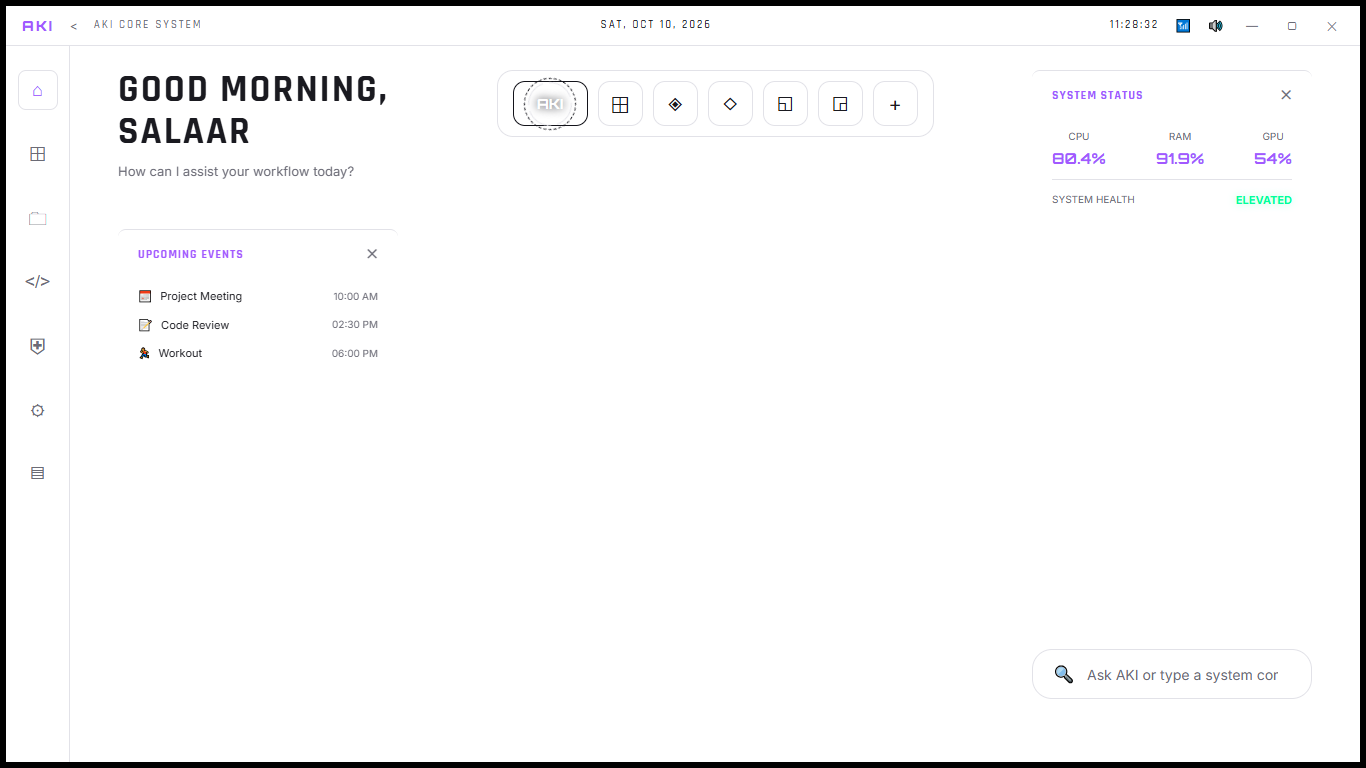
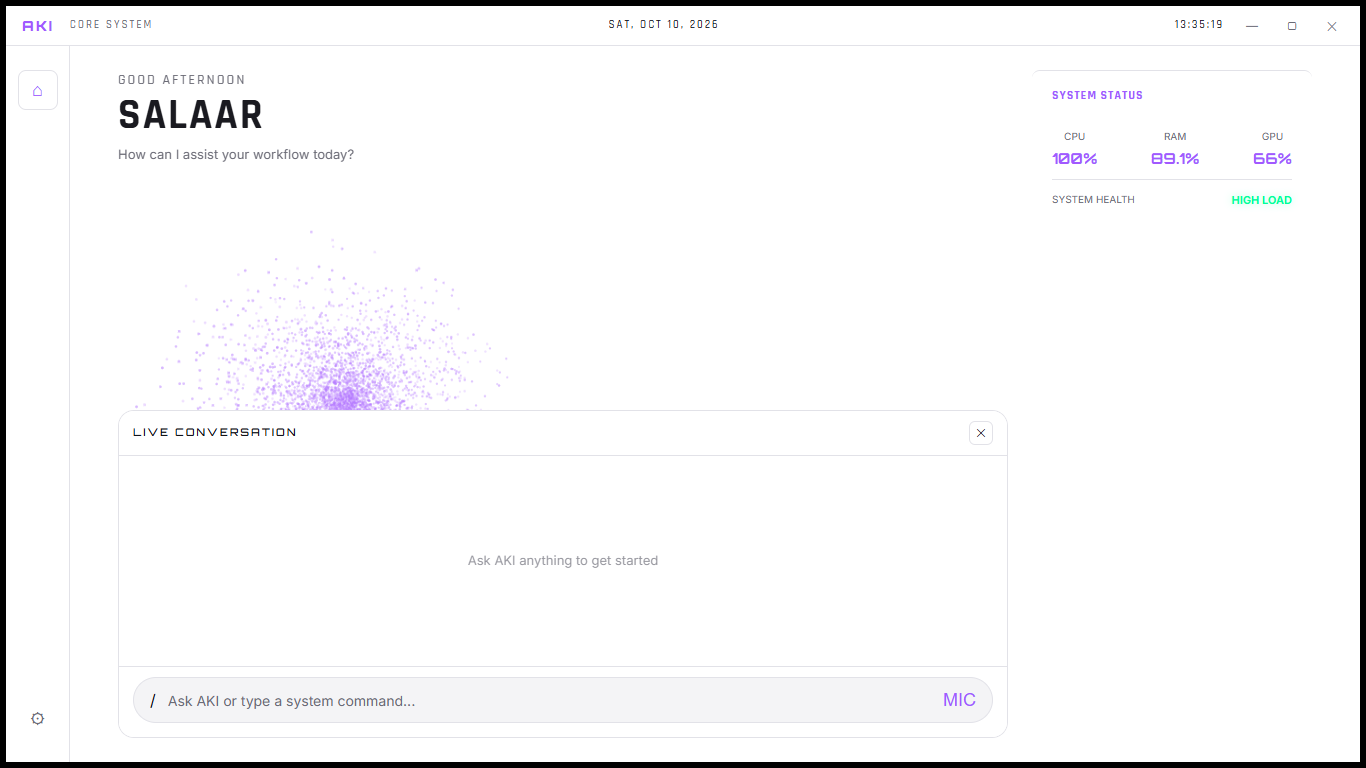
feat: Full minimal dashboard redesign (only particles and settings)

diff --git a/interfaces/web/dashboard.html b/interfaces/web/dashboard.html
@@ -10,90 +10,18 @@
 <body>
     <div class="aki-app-container">
         
-        <!-- Topbar -->
-        <header class="aki-layout-topbar">
-            <div class="aki-topbar-left">
-                <span class="aki-topbar-logo">AKI</span>
-                <span class="aki-topbar-title">CORE SYSTEM</span>
-            </div>
-            <div class="aki-topbar-center" id="osClockDate"></div>
-            <div class="aki-topbar-right">
-                <span class="aki-topbar-center" id="osClockTime"></span>
-                <button class="aki-win-btn" id="btnMin">—</button>
-                <button class="aki-win-btn" id="btnMax">▢</button>
-                <button class="aki-win-btn close" id="btnClose">✕</button>
-            </div>
-        </header>
-
         <!-- Main Workspace -->
         <div class="aki-layout-workspace">
             
             <!-- Left Dock -->
-            <nav class="aki-layout-sidebar">
-                <button class="aki-nav-btn active" data-nav="home">⌂</button>
+            <nav class="aki-layout-sidebar" style="background: transparent; border: none;">
                 <div class="aki-nav-spacer" style="flex: 1;"></div>
-                <button class="aki-nav-btn" data-nav="settings" id="btnSettingsNav">⚙</button>
+                <button class="aki-nav-btn" data-nav="settings" id="btnSettingsNav" style="margin-bottom: 20px;">⚙</button>
             </nav>
-
 
             <!-- Inner Grid (Dashboard Content) -->
             <main class="aki-layout-desktop">
-                
                 <canvas id="aki-particle-canvas"></canvas>
-                
-                <!-- Left Area: Greeting -->
-                <div class="aki-layout-left aki-fade-in">
-                    <div class="greeting-box">
-                        <div class="aki-greeting-time" id="greetingTime">GOOD MORNING</div>
-                        <div class="aki-greeting-name" id="greetingName">SALAAR</div>
-                        <p class="aki-greeting-sub">How can I assist your workflow today?</p>
-                    </div>
-                </div>
-
-
-
-                <!-- Right Area: Subtle System Status -->
-                <div class="aki-layout-right aki-fade-in">
-                    <div class="aki-glass-panel">
-                        <div class="aki-panel-header">SYSTEM STATUS</div>
-                        <div class="aki-telemetry-row">
-                            <div class="aki-telemetry-item">
-                                <div class="aki-telemetry-label">CPU</div>
-                                <div class="aki-telemetry-val" id="osCpuVal">--%</div>
-                            </div>
-                            <div class="aki-telemetry-item">
-                                <div class="aki-telemetry-label">RAM</div>
-                                <div class="aki-telemetry-val" id="osRamVal">--%</div>
-                            </div>
-                            <div class="aki-telemetry-item">
-                                <div class="aki-telemetry-label">GPU</div>
-                                <div class="aki-telemetry-val" id="osGpuVal">--%</div>
-                            </div>
-                        </div>
-                        <div class="aki-health-row">
-                            <div class="aki-telemetry-label">SYSTEM HEALTH</div>
-                            <div class="aki-health-val" id="osHealthLabel">EXCELLENT</div>
-                        </div>
-                        </div>
-                    </div>
-                    
-                    <div class="os-chat-panel" id="chatPanel">
-                        <div class="os-chat-header">
-                            <span class="os-chat-title">LIVE CONVERSATION</span>
-                            <button class="os-chat-clear" id="btnChatClear" title="Clear conversation">✕</button>
-                        </div>
-                        <div class="os-chat-scroll" id="chatMessages">
-                            <div class="os-chat-empty-state" id="chatEmptyState">Ask AKI anything to get started</div>
-                        </div>
-                        <div class="aki-command-wrapper">
-                            <div class="aki-command-bar">
-                                <span class="aki-cmd-icon">/</span>
-                                <input type="text" class="aki-cmd-input" id="cmdInput" placeholder="Ask AKI or type a system command..." autocomplete="off">
-                                <button id="btnVoice" class="aki-cmd-voice">MIC</button>
-                            </div>
-                        </div>
-                    </div>
-                </div>
             </main>
         </div>
     </div>

diff --git a/interfaces/web/js/os_desktop.js b/interfaces/web/js/os_desktop.js
@@ -26,73 +26,10 @@
 
     // DOM Elements Cache
     const elements = {
-        osClockTime: document.getElementById("osClockTime"),
-        osClockDate: document.getElementById("osClockDate"),
-        greetingTime: document.getElementById("greetingTime"),
-        
-        osCpuVal: document.getElementById("osCpuVal"),
-        osRamVal: document.getElementById("osRamVal"),
-        osGpuVal: document.getElementById("osGpuVal"),
-        osHealthLabel: document.getElementById("osHealthLabel"),
-        
-        cmdInput: document.getElementById("cmdInput"),
-        btnVoice: document.getElementById("btnVoice"),
-        btnAttach: document.getElementById("btnAttach"),
-        btnSubmit: document.getElementById("btnSubmit"),
-        attachmentPill: document.getElementById("attachmentPill"),
-        attachmentName: document.getElementById("attachmentName"),
-        waveformContainer: document.getElementById("waveformContainer"),
-        
         btnMin: document.getElementById("btnMin"),
         btnMax: document.getElementById("btnMax"),
-        btnClose: document.getElementById("btnClose"),
-        btnSoundToggle: document.getElementById("btnSoundToggle"),
-
-        chatInput: document.getElementById("chatInput"),
-        btnChatSubmit: document.getElementById("btnChatSubmit")
+        btnClose: document.getElementById("btnClose")
     };
-
-    // 1. Adaptive Greeting & Live System Clock
-    function updateClockAndGreeting() {
-        const now = new Date();
-        const hoursNum = now.getHours();
-        const hours = String(hoursNum).padStart(2, '0');
-        const minutes = String(now.getMinutes()).padStart(2, '0');
-        const seconds = String(now.getSeconds()).padStart(2, '0');
-        
-        if (elements.osClockTime) {
-            elements.osClockTime.textContent = `${hours}:${minutes}:${seconds}`;
-        }
-        if (elements.osClockDate) {
-            const options = { weekday: 'short', month: 'short', day: 'numeric', year: 'numeric' };
-            elements.osClockDate.textContent = now.toLocaleDateString('en-US', options).toUpperCase();
-        }
-
-        // Adaptive Greeting for User SALAAR
-        if (elements.greetingTime) {
-            let greeting = "GOOD EVENING";
-            if (hoursNum < 12) {
-                greeting = "GOOD MORNING";
-            } else if (hoursNum < 18) {
-                greeting = "GOOD AFTERNOON";
-            }
-            elements.greetingTime.textContent = greeting;
-        }
-    }
-
-    // 2. Real-time Telemetry Renderer
-    function renderTelemetry(data) {
-        if (!data || !data.system) return;
-
-        const cpu = data.system.cpu_percent || 18;
-        const ram = data.system.ram_percent || 32;
-        const gpu = Math.round(cpu * 0.6 + 6);
-
-        if (elements.osCpuVal) elements.osCpuVal.textContent = `${cpu}%`;
-        if (elements.osRamVal) elements.osRamVal.textContent = `${ram}%`;
-        if (elements.osGpuVal) elements.osGpuVal.textContent = `${gpu}%`;
-        if (elements.osHealthLabel) elements.osHealthLabel.textContent = data.system.status_label || "EXCELLENT";
-    }
 
     // 3. Multi-View Stack Navigation Manager
     function switchView(targetViewId) {

diff --git a/interfaces/web/js/particles.js b/interfaces/web/js/particles.js
@@ -55,7 +55,7 @@ class ParticleSwarm {
 
     generateStates() {
         this.states = [];
-        let cx = this.width / 4; // Hero area is on the left
+        let cx = this.width / 2; // Center of screen
         let cy = this.height / 2;
         
         // State 0: CORE (dense orb)

diff --git a/desktop/main_window.py b/desktop/main_window.py
@@ -139,9 +139,16 @@ class MainWindow(QMainWindow):
         tm = ThemeManager.get_instance()
         if tm:
             tm.themeChanged.connect(self._on_theme_changed)
+            self._web_view.loadFinished.connect(
+                lambda ok: self._web_view.set_web_theme(not tm.is_dark()) if ok else None
+            )
+
     def _on_theme_changed(self, theme):
         """Re-skin webview when Qt theme changes dynamically."""
-        pass
+        from desktop.themes.theme_manager import ThemeManager
+        tm = ThemeManager.get_instance()
+        if tm and hasattr(self, "_web_view"):
+            self._web_view.set_web_theme(not tm.is_dark())
 
     def changeEvent(self, event) -> None:
         """Track window state changes (e.g. Maximize/Restore) and notify bridge."""
